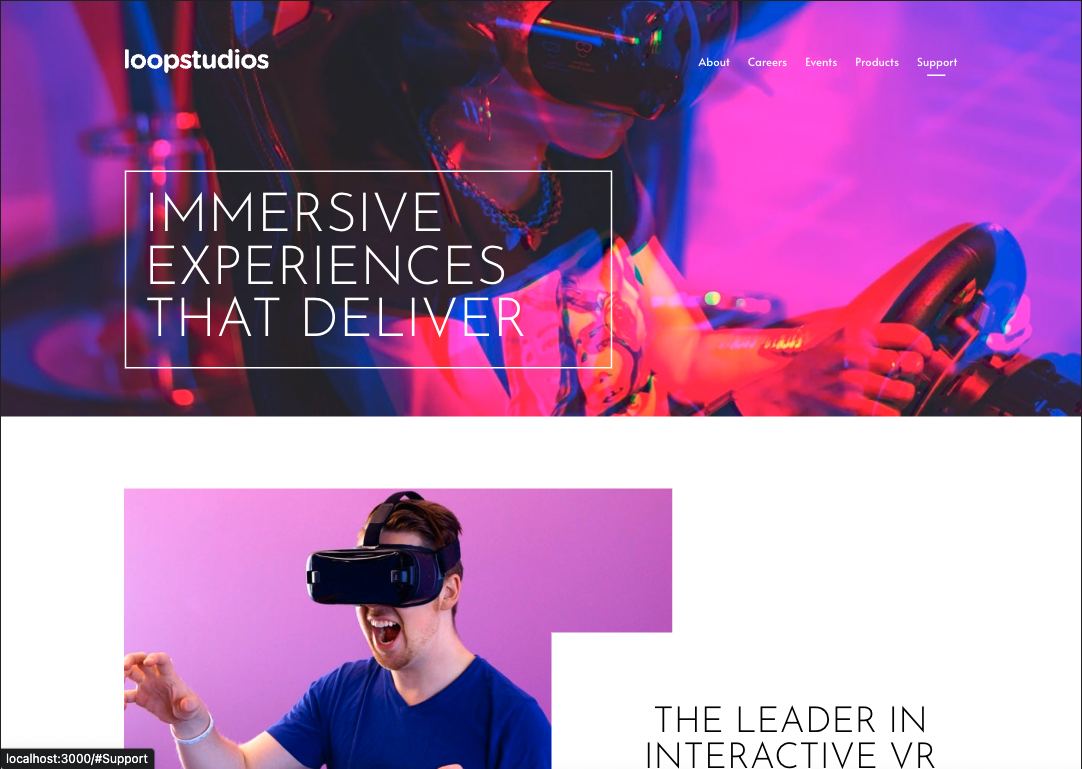
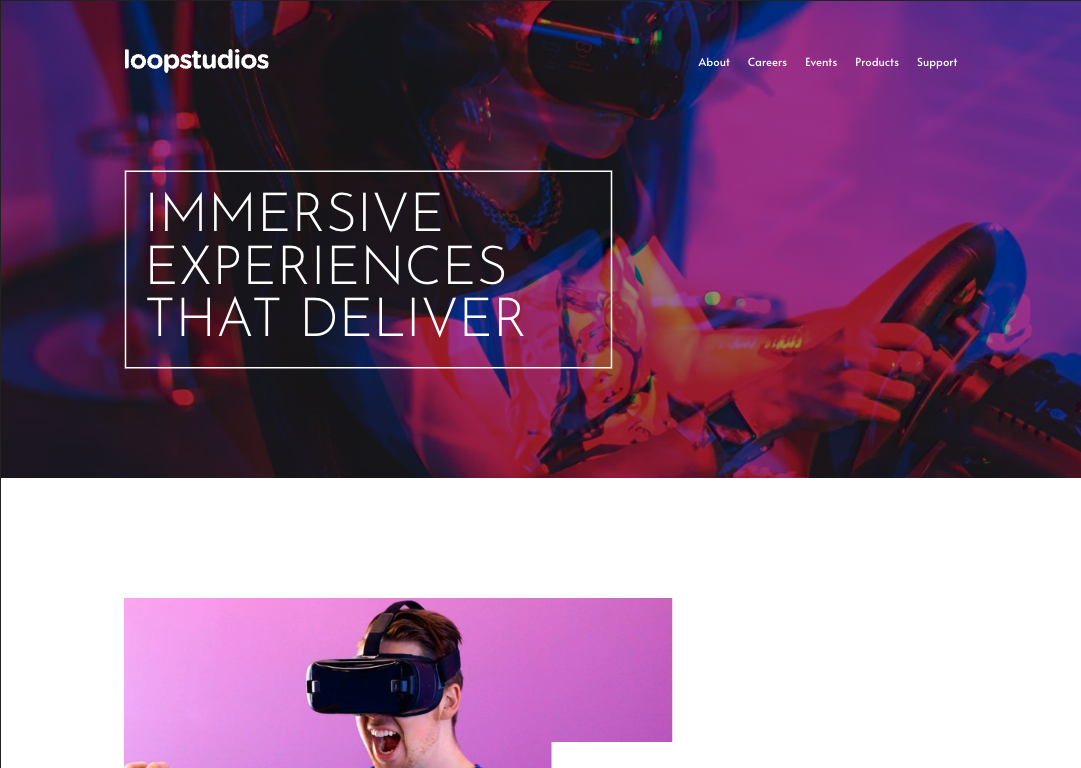
Updating spacing and screenshot

diff --git a/src/components/About/About.module.css b/src/components/About/About.module.css
@@ -28,6 +28,7 @@
 
 @media (min-width: 670px) {
   .wrapper {
+    margin-top: 10rem;
     padding: 0 10.25rem;
     flex-direction: row;
     position: relative;

diff --git a/src/components/Products/Products.module.css b/src/components/Products/Products.module.css
@@ -63,6 +63,7 @@
     column-gap: 1.875rem;
     row-gap: 1.875rem;
     grid-area: cards;
+    margin-top: 5rem;
   }
 
   .seeAllBtn {
